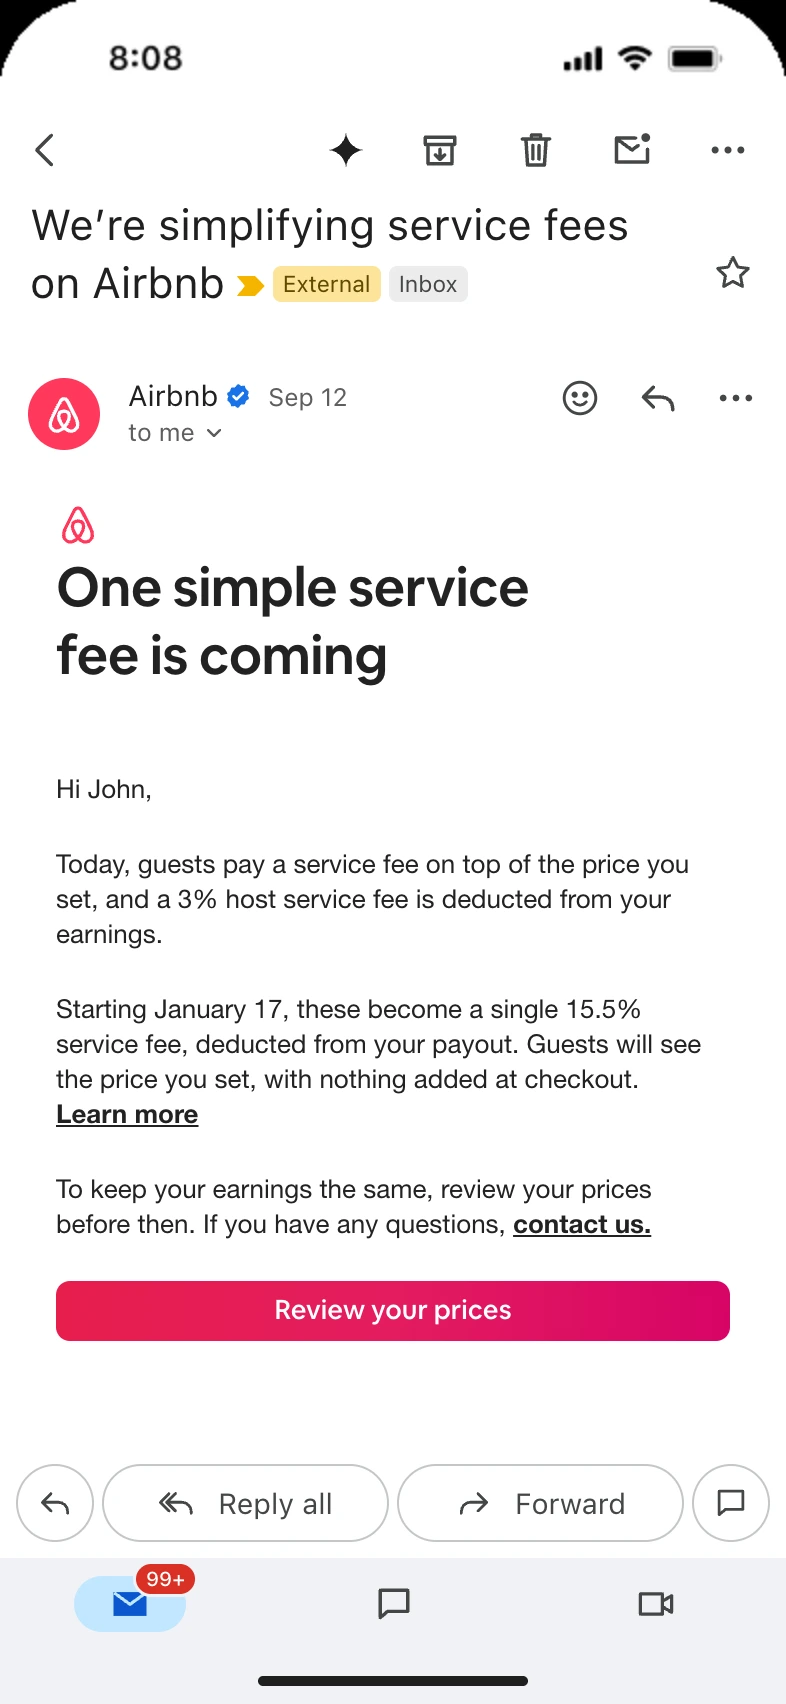
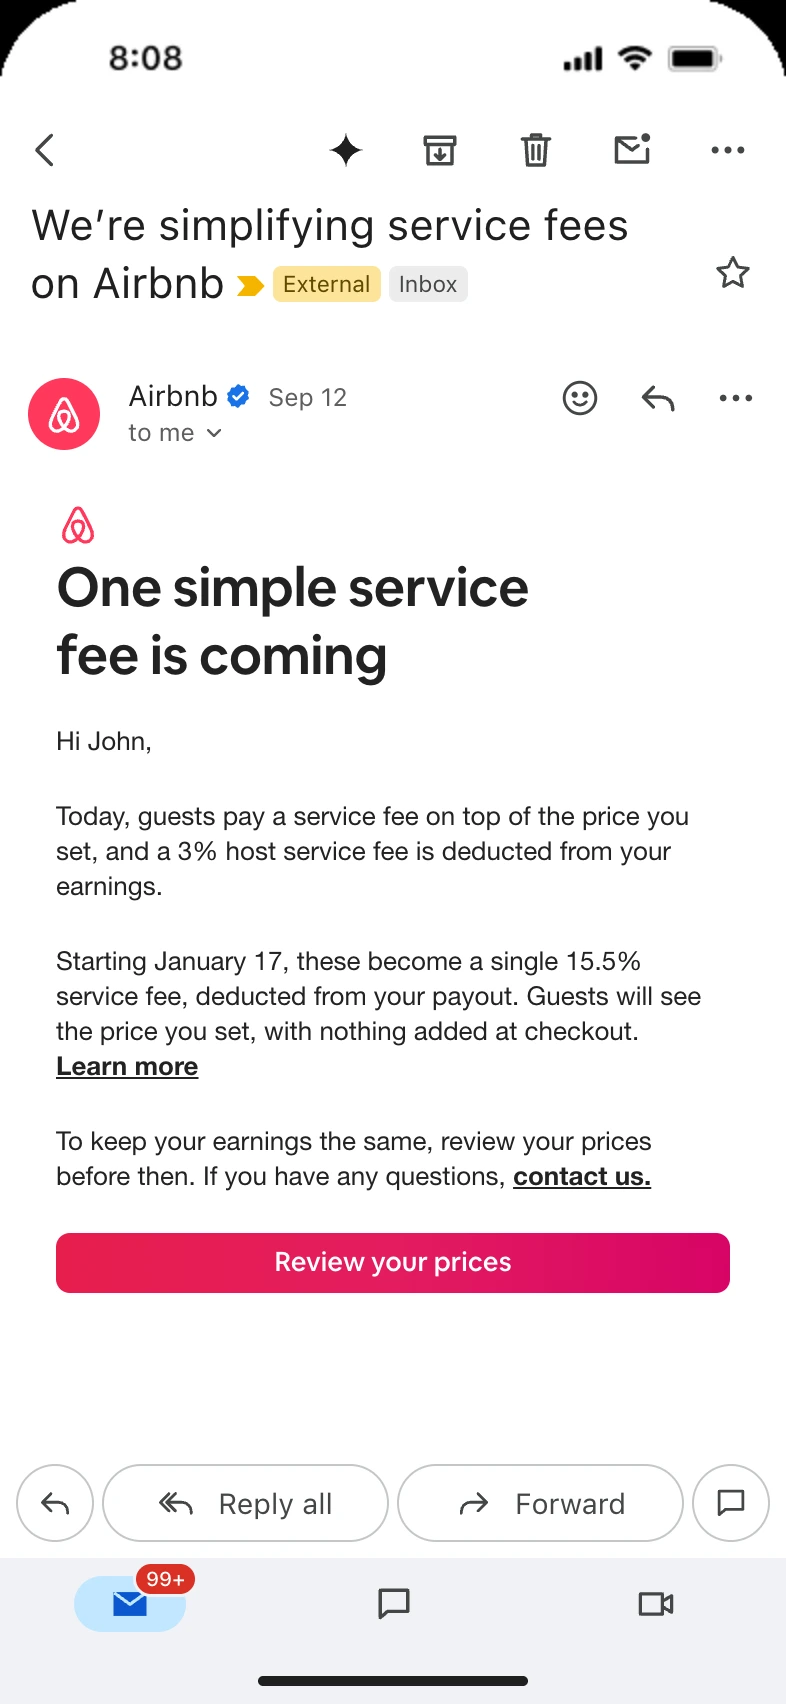
preso: the fee email's headline sits 24px over Hi John

Changed region(s): [[0.0611, 0.4354, 0.9466, 0.8087]]

diff --git a/preso/tools/fee-email.html b/preso/tools/fee-email.html
@@ -36,7 +36,7 @@
 
   .mail { left: 28px; top: 250px; width: 337px; font-family: 'Helvetica Neue', Helvetica, Arial, sans-serif; color: #222; }
   .belo { width: 22px; height: 24px; display: block; }
-  .mail h1 { margin: 3.5px 0 40px; font-family: 'Cereal', sans-serif; font-weight: 600; font-size: 27px; line-height: 34px; letter-spacing: -.3px; color: #222; }
+  .mail h1 { margin: 3.5px 0 16px; font-family: 'Cereal', sans-serif; font-weight: 600; font-size: 27px; line-height: 34px; letter-spacing: -.3px; color: #222; }
   .mail p { margin: 0 0 20px; font-size: 13px; line-height: 17.5px; color: #222; }
   .mail a { color: #222; font-weight: 700; text-decoration: underline; white-space: nowrap; }
   .cta { display: block; height: 30px; border-radius: 7px; background: linear-gradient(90deg, #e61e4d 0%, #e31c5f 50%, #d70466 100%);
